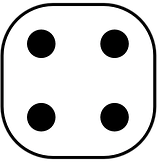
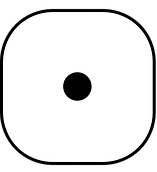
Interfaz Tablero Resuelta

diff --git a/main.py b/main.py
@@ -28,7 +28,20 @@ def superponer_dado():
     img_dado_res = pygame.image.load("__stored_img__/im_dado.png")
     
     #mover fichas
-    #mover_fichas()
+    mover_jugador()
+
+#Jugador 1 es impar
+#Jugador 2 es par
+def mover_jugador():
+    global resultado_decimal, jugador, jugador_position_1, jugador_position_2
+
+    if num_movimientos % 2 != 0:
+        jugador = 1
+        jugador_position_1 = resultado_decimal
+    else: 
+        jugador = 2
+        jugador_position_2 = resultado_decimal
+
 
 def binario_a_decimal(numero_binario):
 	numero_decimal = 0 
@@ -49,25 +62,55 @@ def draw_pointer(player, x, y):
 #Inicializa los módulos de pygame
 pygame.init()
 
+clock = pygame.time.Clock()
 empty_color = pygame.Color(0,0,0,0) 
 color_white = np.array((255, 255, 255)) #Color del fondo de la ventana (en RGB)
 color_red = np.array((255, 0, 0))
 color_green = np.array((0, 217, 94))
 color_orange = np.array((252, 186, 3))
-color_purple = np.array(( 140, 3, 252))
+color_purple = np.array(( 140, 3, 222))
 color_snake = np.array((161, 245, 170))
 color_snake_complement = np.array((165, 39, 19))
 color_black = np.array((0, 0, 0))
 
+colors = [
+    (230, 154, 119),
+    (108, 177, 230),
+    (230, 203, 96),
+    (230, 154, 119),
+    (108, 177, 230),
+    (230, 203, 96),
+    (230, 154, 119),
+    (108, 177, 230),
+    (230, 203, 96),
+    (230, 154, 119),
+    (108, 177, 230),
+    (230, 203, 96),
+    (230, 154, 119),
+    (108, 177, 230),
+    (230, 203, 96),
+    #(217, 184, 222),
+    #(214, 201, 163),
+    #(174, 152, 214),
+    #(214, 102, 9),
+    #(148, 159, 214),
+    #(138, 134, 19),
+    #(214, 48, 183),
+    #(230, 154, 119),
+    #(108, 177, 230),
+    #(230, 203, 96),
+    #(217, 184, 222)
+]
 #Título de la ventana
 pygame.display.set_caption("QPath & Snakes v0.1")
 
 #Variable Global que controla el estado del menú
 menu_state = 0
 num_movimientos = 0
+jugador = 1
 resultado_decimal = 0
-pointer_location_1 = 0
-pointer_location_2 = 0
+jugador_position_1 = 0
+jugador_position_2 = 0
 
 #Circuito imagen
 qc_circuit = StartCircuit()
@@ -99,7 +142,7 @@ while True:
     
     head.blit(header_logo, rect_header_logo)
     #head.fill(color_orange)
-    body_tablero.fill(color_snake_complement)
+    #body_tablero.fill(color_snake_complement)
     foot_buttons.fill(color_orange)
     foot_circuit.fill(color_orange)
     pygame.draw.rect(body_info, color_green, (0, 0, 22*bloque, 20*bloque), border_top_left_radius=10)
@@ -107,26 +150,32 @@ while True:
     footer.blit(img_circuit,(0,0))
     body_info.blit(img_plot,(11*bloque,0*bloque))
     
-
-    cuadricula(4*bloque, 0*bloque, 4*bloque, 4*bloque, (5,7), body_tablero, borde=10)
-    red_celda = cuadricula(0, 0, 4*bloque, 4*bloque, (5,1), body_tablero, color_red)
-    green_celda = cuadricula(32*bloque, 0, 4*bloque, 4*bloque, (5,1), body_tablero, color_green)
+    #Se dibuja el tablero
+    tablero_celdas = cuadricula(4*bloque, 0*bloque, 4*bloque, 4*bloque, (5,7), body_tablero, colors, True)
+    red_celdas = cuadricula(0, 0, 4*bloque, 4*bloque, (4,1), body_tablero, color_red)
+    green_celdas = cuadricula(32*bloque, 4*bloque, 4*bloque, 4*bloque, (4,1), body_tablero, color_green)
+    start_celda = pygame.draw.rect(body_tablero, color_green, (32*bloque,0, 4*bloque, 4*bloque), border_top_right_radius=10)
+    finish_celda = pygame.draw.rect(body_tablero, color_red, (0,16*bloque, 4*bloque, 4*bloque))
     
+    #= pygame.draw.rect(body_tablero, color_red, (32*bloque, 0, 4*bloque, 4*bloque),border_top_right_radius=10)
+    #green_celdas[0][0].update(20*bloque,0,4*bloque,4*bloque)
+    #pygame.Rect.update(green_celdas[0][0], width=20)
+    print(tablero_celdas[4][0].y / bloque)
     if menu_state == 0:
         button(foot_buttons, 2*bloque, 2*bloque, 8*bloque, 4*bloque, color_snake_complement, "Iniciar", 43, color_white, action=jugar)
         button(foot_buttons, 12*bloque, 2*bloque, 8*bloque, 4*bloque, color_snake_complement, "Salir", 43, color_white, action=salir)
     elif menu_state == 1:
         if num_movimientos % 2 == 0:
-            button(foot_buttons, 2*bloque, 2*bloque, 18*bloque, 4*bloque, color_snake_complement, "Player_1: Superponer dado", 43, color_white, action=superponer_dado)
+            button(foot_buttons, 2*bloque, 2*bloque, 18*bloque, 4*bloque, color_purple, "Player_1: Superponer dado", 43, color_white, action=superponer_dado)
             #body_info.blit(img_dado_res,(0,0))
         else:
-            button(foot_buttons, 2*bloque, 2*bloque, 18*bloque, 4*bloque, color_snake_complement, "Player_2: Superponer dado", 43, color_white, action=superponer_dado)
+            button(foot_buttons, 2*bloque, 2*bloque, 18*bloque, 4*bloque, color_black, "Player_2: Superponer dado", 43, color_white, action=superponer_dado)
             #body_info.blit(img_dado_res,(0,0))
         body_info.blit(img_dado_res,(0,0))
-        draw_pointer(1, 1*bloque, 1*bloque)
-        draw_pointer(2, 3*bloque, 3*bloque)
-
-
+        draw_pointer(1, 1*bloque, 16*bloque+1*bloque)
+        draw_pointer(2, 3*bloque, 16*bloque+3*bloque)
+        print(resultado_decimal)
+    #clock.tick(30)
     #Hace que todo lo que se dibuje en la superficie en cada frame se vuelva visible
     pygame.display.flip()
 

diff --git a/components.py b/components.py
@@ -88,10 +88,14 @@ def text_objects(text, size, font_path, color=(0,0,0)):
 #h  = alto de la celda (float)
 #dimension = Tupla que contiene la cantidad de filas y columnas (row, column)
 #surface = superficie donde desea ubicarles
-def cuadricula(xi, yi, b, h, dimension, surface, color=np.array((255, 255, 255)), borde=0):
+def cuadricula(xi, yi, b, h, dimension, surface, color, rand_color=False, borde=0):
     rows, columns = dimension[0], dimension[1]
     celdas = [[0 for col in range(0,columns)] for row in range(0,rows)]
     for i in range(0, rows):
         for j in range(0, columns):
-            celdas[i][j] = pygame.draw.rect(surface, color, (xi+b*j,yi+h*i,b,h), borde)
+            if rand_color:
+                celdas[i][j] = pygame.draw.rect(surface, color[i+j], (xi+b*j,yi+h*i,b,h), borde)
+            else:
+                celdas[i][j] = pygame.draw.rect(surface, color, (xi+b*j,yi+h*i,b,h), borde)
+                
     return celdas
